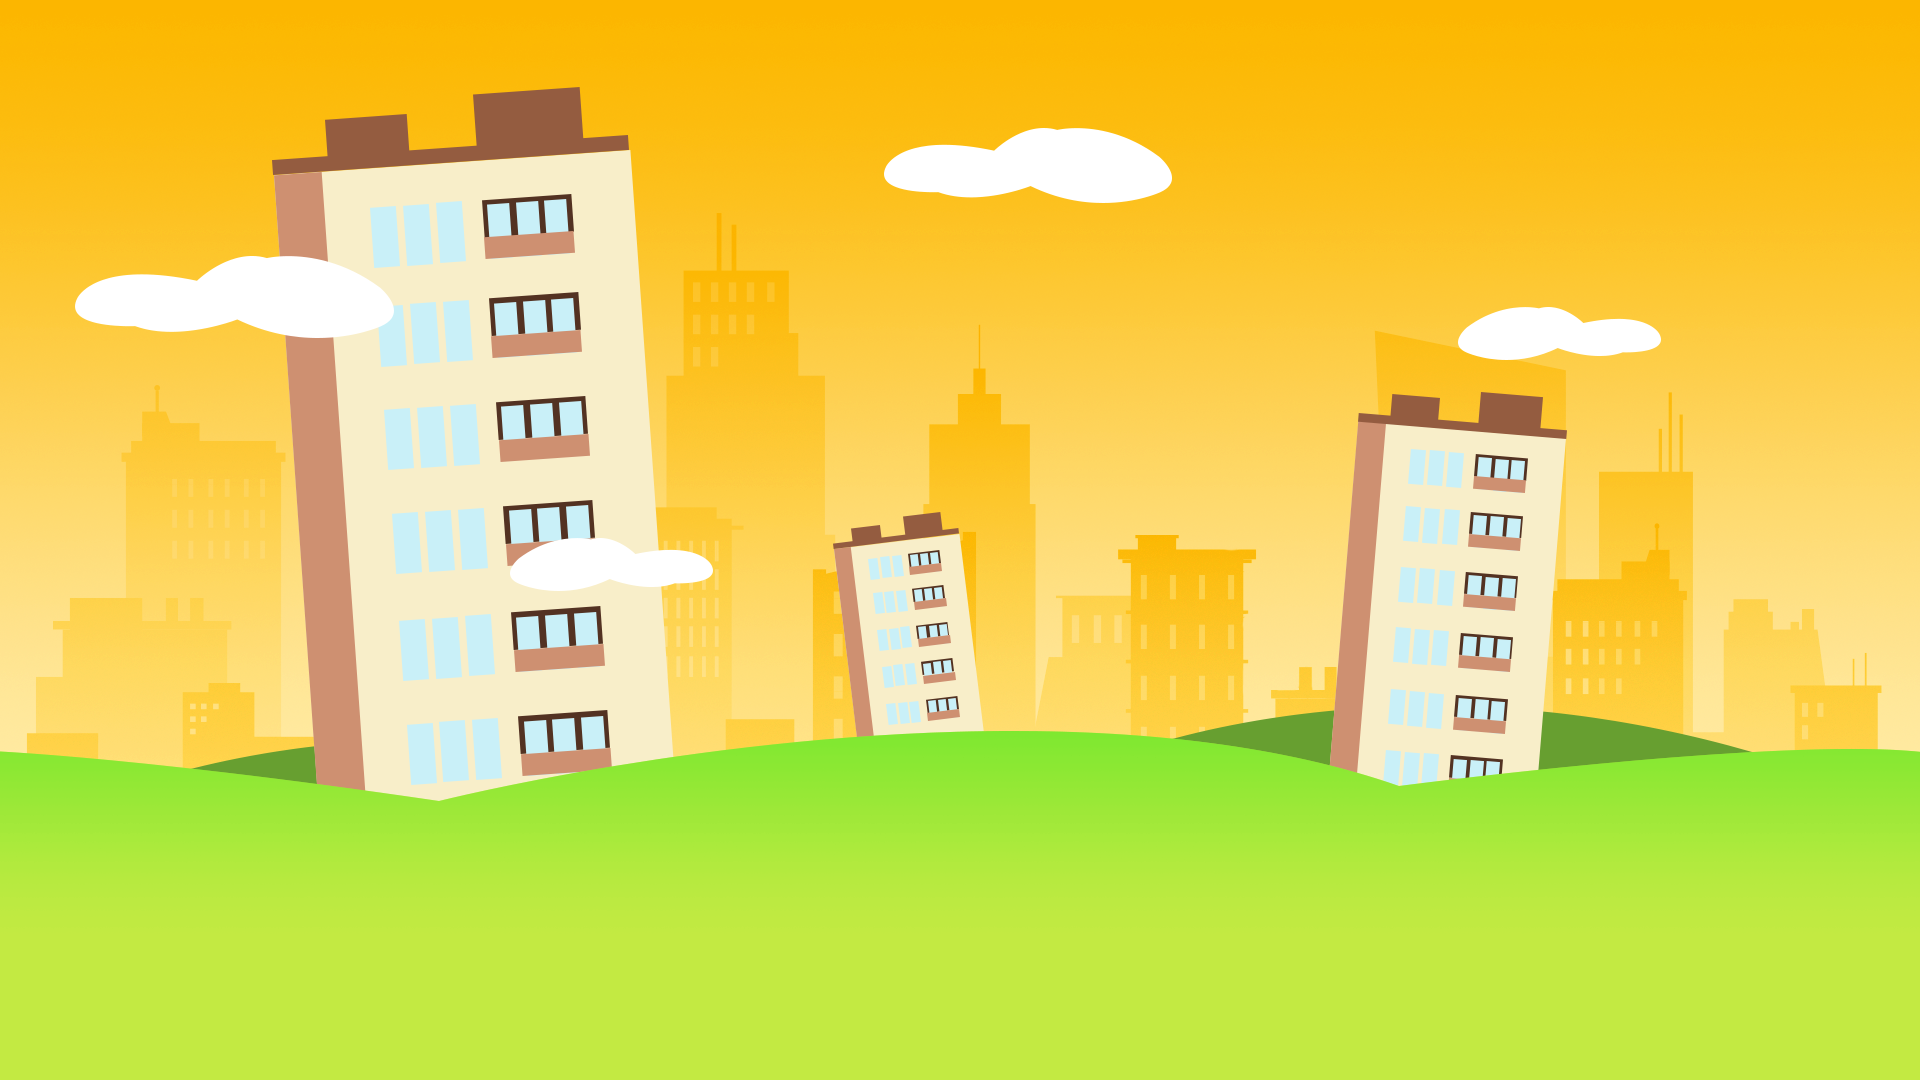
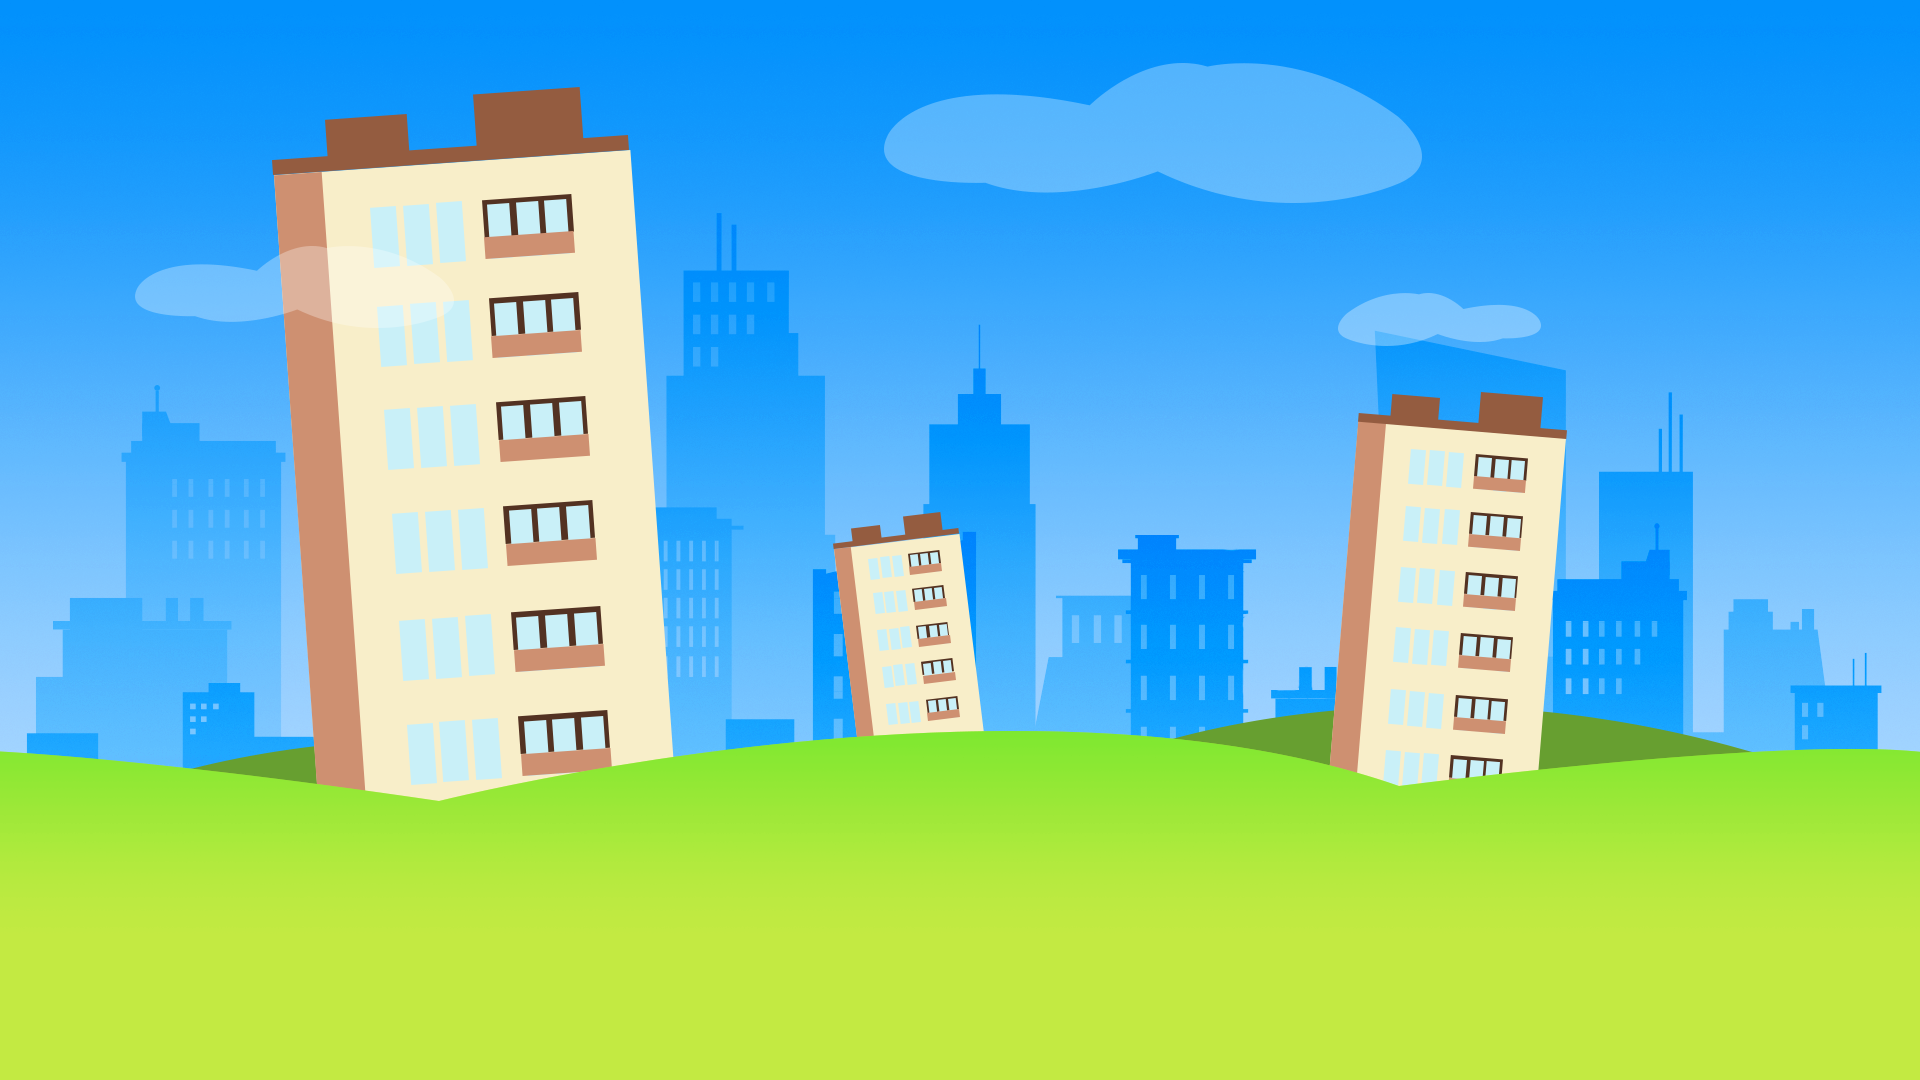
Background changed

diff --git a/src/states/Game.js b/src/states/Game.js
@@ -144,7 +144,6 @@ export default class extends Phaser.State {
     }
     this.game.physics.arcade.collide(this.player, this.platforms)
     this.game.physics.arcade.collide(this.player, this.ground)
-    // this.game.physics.arcade.collide(this.player, this.crate)
     this.game.physics.arcade.overlap(this.crates, this.player, this.crateAndPlayerCollisionHandler, null, this)
     this.game.physics.arcade.overlap(this.virus, this.player, this.virusAndPlayerCollisionHandler, null, this)
   }

diff --git a/src/sprites/Player.js b/src/sprites/Player.js
@@ -34,9 +34,6 @@ export class Player extends Phaser.TileSprite {
     } else {
        this.animations.play('idle', 24, false)
     }
-    //if (!this.body.onFloor() && !this.body.touching.down) {
-    //   this.animations.play('idle', 24, false)
-    // }
     if ((this.jumpButton.isDown || this.jumpButton2.isDown) && (this.body.onFloor() || this.body.touching.down)) {
       this.body.velocity.y = this.jumpHeight;
     }

diff --git a/src/states/Duel.js b/src/states/Duel.js
@@ -84,7 +84,7 @@ export default class extends Phaser.State {
       this.nextFire = this.game.time.now + this.fireRate;
 
       const bullet = this.bullets.getFirstExists(false)
-      bullet.scale.set(0.05)
+      bullet.scale.set(0.1)
 
       bullet.reset(this.player.position.x, this.player.position.y)
 
